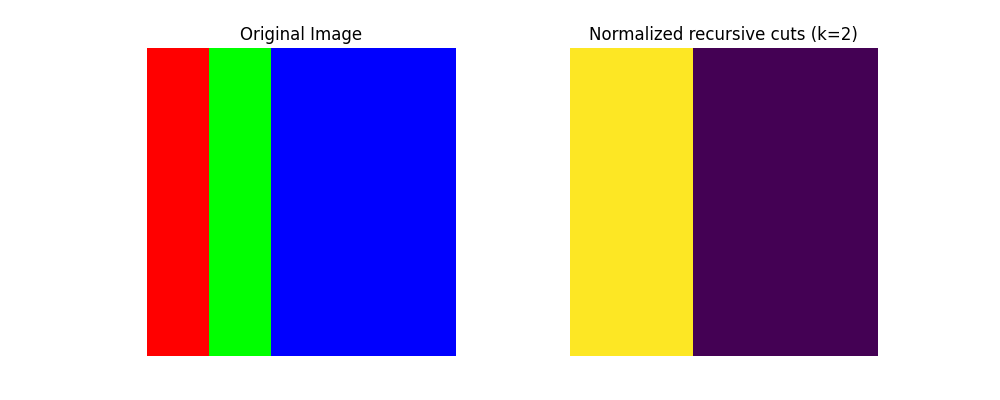
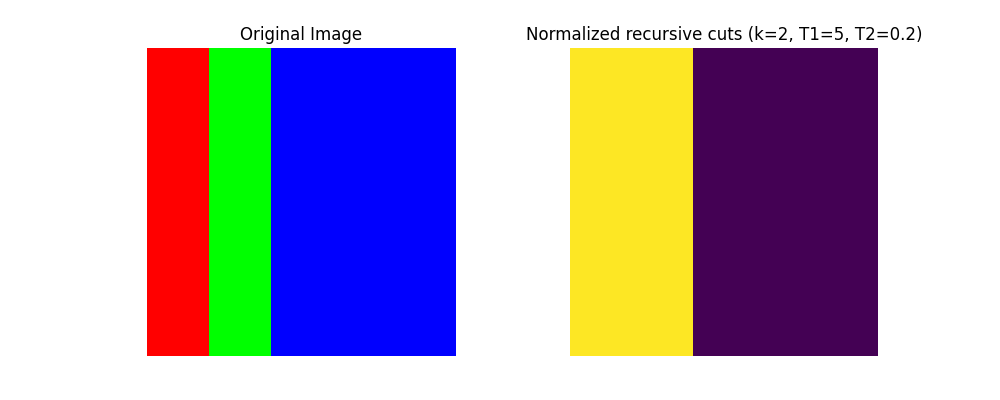
fix diagram values and check t2=0.95

Changed region(s): [[0.527, 0.06, 0.93, 0.12]]

diff --git a/3rd_assignment/demo3b.py b/3rd_assignment/demo3b.py
@@ -30,8 +30,8 @@ for idx, k in enumerate(k_list):
     plt.imshow(d2a)
     plt.axis('off')
 
-    plt.subplot(2, 2, 2)
-    plt.title(f"Normalized Cuts (k=2, n_cut={n_cut_value:.2f})")
+    plt.subplot(1, 2, 2)
+    plt.title(f"Normalized Cuts (k=2, n_cut_value={n_cut_value:.4f})")
     plt.imshow(label_img, cmap='viridis')
     plt.axis('off')
 
@@ -57,8 +57,8 @@ for idx, k in enumerate(k_list):
     plt.imshow(d2b)
     plt.axis('off')
 
-    plt.subplot(2, 2, 2)
-    plt.title(f"Normalized Cuts (k=2, n_cut={n_cut_value:.2f})")
+    plt.subplot(1, 2, 2)
+    plt.title(f"Normalized Cuts (k=2, n_cut_value={n_cut_value:.4f})")
     plt.imshow(label_img, cmap='viridis')
     plt.axis('off')
 

diff --git a/3rd_assignment/demo3c.py b/3rd_assignment/demo3c.py
@@ -30,7 +30,7 @@ plt.imshow(d2a)
 plt.axis('off')
 
 plt.subplot(1, 2, 2)
-plt.title(f"Normalized recursive cuts (k={2})")
+plt.title(f"Normalized recursive cuts (k={2}, T1={t1}, T2={t2})")
 plt.imshow(label_img, cmap='viridis')
 plt.axis('off')
 
@@ -55,7 +55,7 @@ plt.imshow(d2b)
 plt.axis('off')
 
 plt.subplot(1, 2, 2)
-plt.title(f"Normalized recursive cuts (k={2})")
+plt.title(f"Normalized recursive cuts (k={2}, T1={t1}, T2={t2})")
 plt.imshow(label_img, cmap='viridis')
 plt.axis('off')
 
